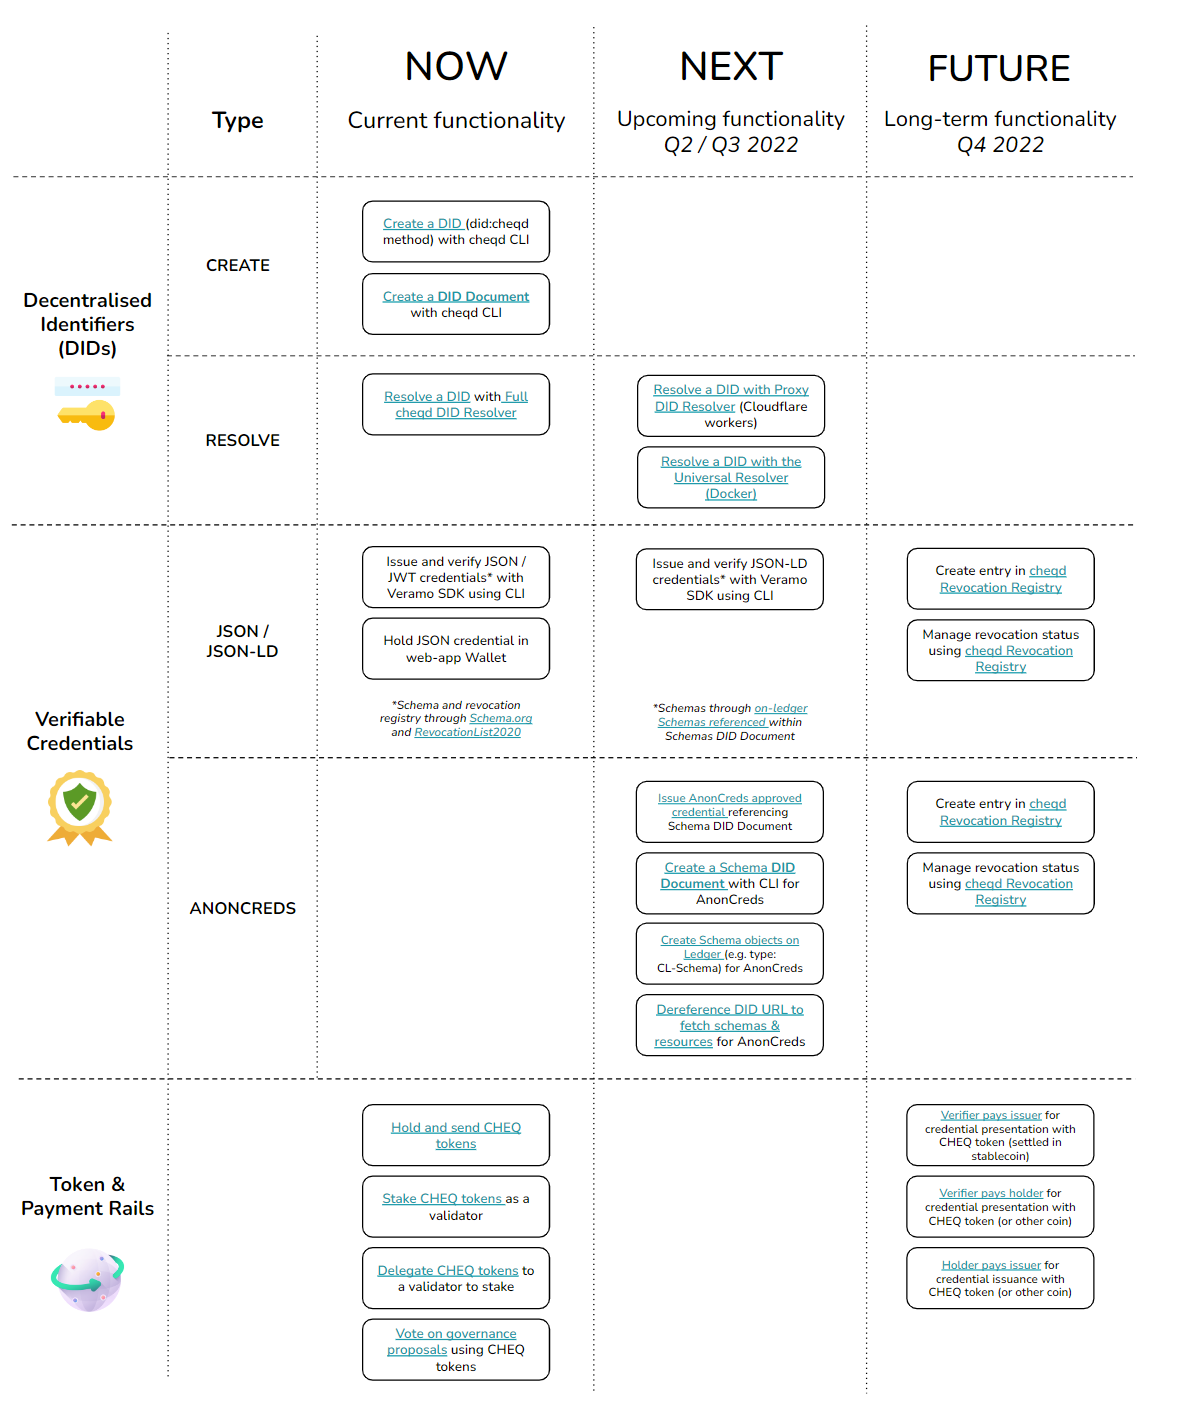
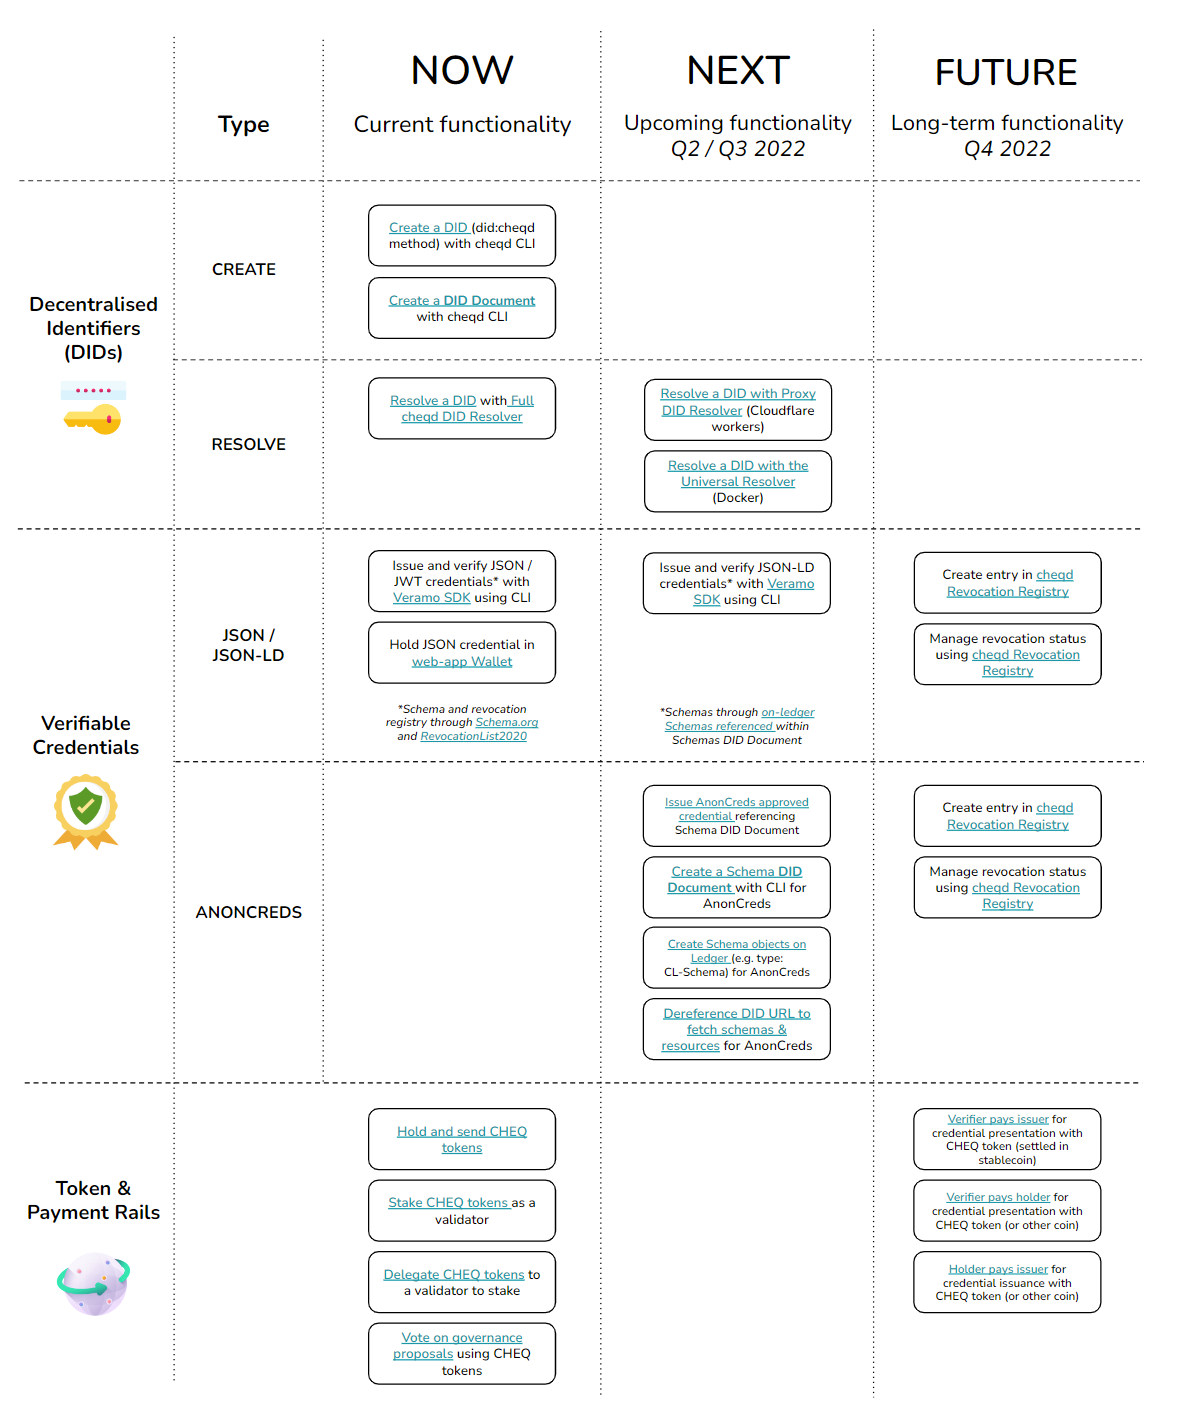
GitBook: [#82] Updated images

diff --git a/product-essentials/product-now-next-and-future.md b/product-essentials/product-now-next-and-future.md
@@ -5,10 +5,10 @@ For a quick overview of current and future functionality on the cheqd network ta
 {% endhint %}
 
 {% file src="../.gitbook/assets/cheqd now, next, future graphic.pdf" %}
-Accessible file for clickable cheqd now, next, future graphic
+Clickable graphic for cheqd now, next, future
 {% endfile %}
 
-![Graphic showing cheqd now, next and future](<../.gitbook/assets/cheqd now, next, future.png>)
+![Graphic showing cheqd's product: now, next and future](<../.gitbook/assets/cheqd now, next, future.png>)
 
 ### Creating & Managing DIDs on the cheqd network
 
